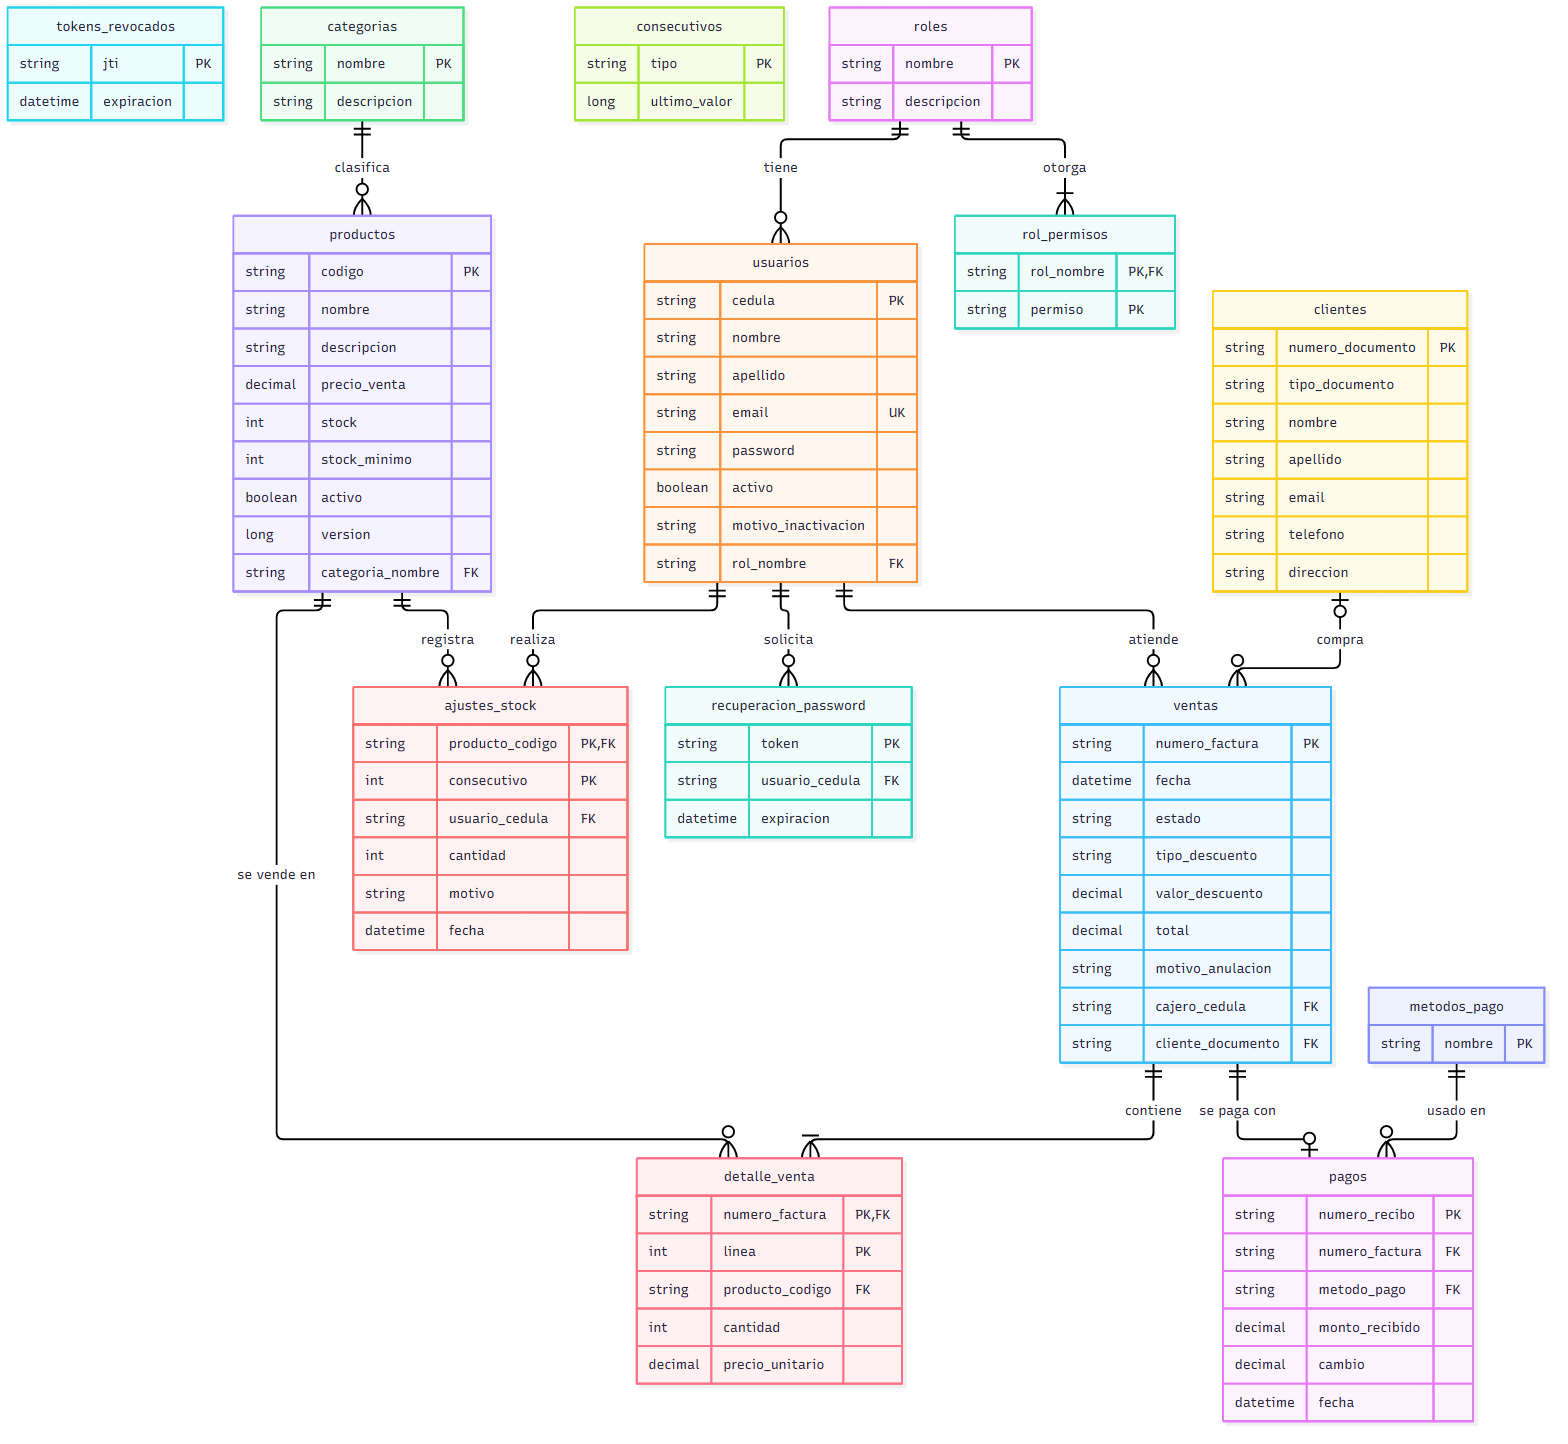
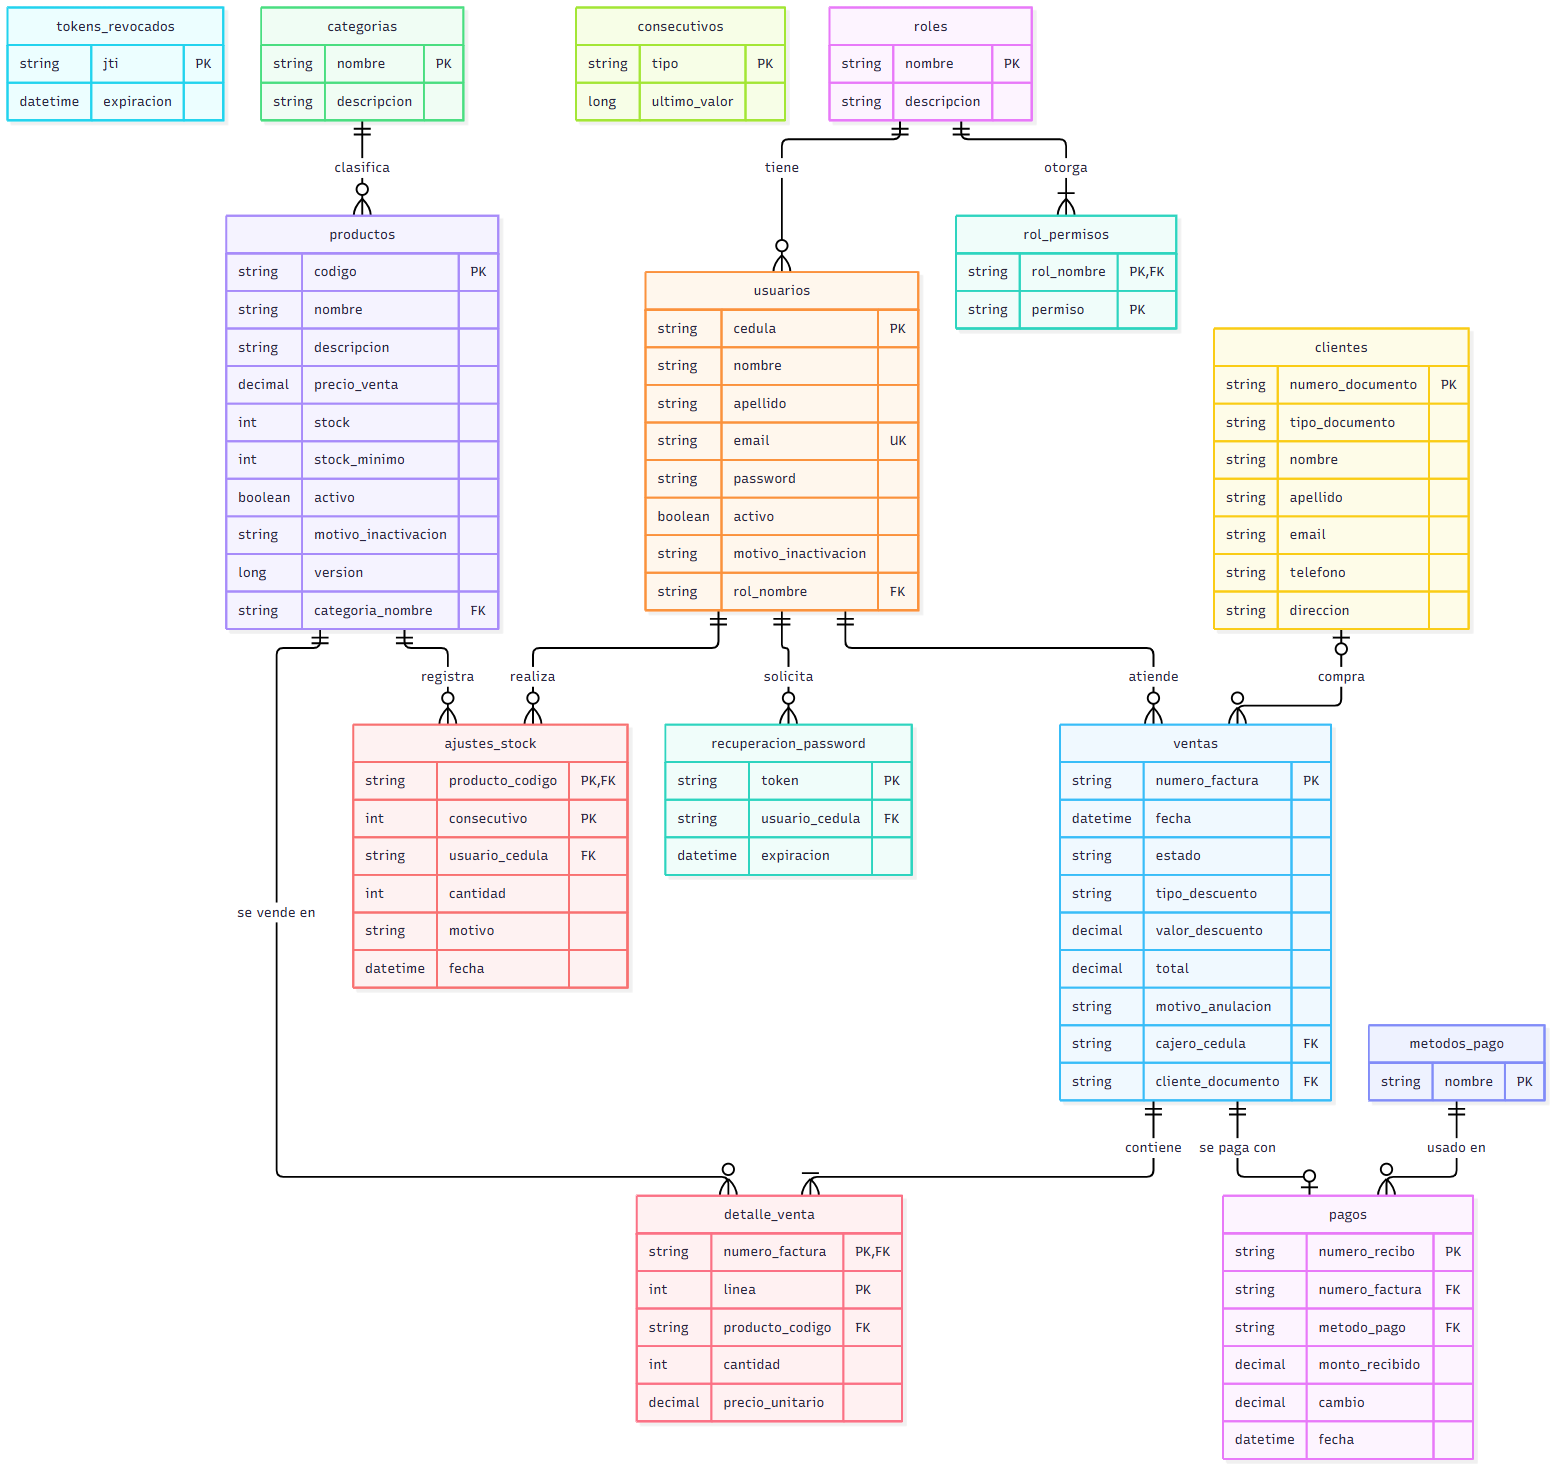
docs: diagrama del modelo actualizado, cambios al diseño y guía de verificación del Sprint 2

diff --git a/docs/verificacion-sprint-2.md b/docs/verificacion-sprint-2.md
@@ -1,0 +1,112 @@
+# Verificación del Sprint 2
+
+Guía para comprobar a mano que los requisitos del Sprint 2 funcionan. Se hizo una verificación automática el 2026-10-11 (resultados al final); esta guía es para repetirla en pantalla.
+
+## Qué se implementó
+
+| RF | Qué hace | Quién | Dónde se prueba |
+|---|---|---|---|
+| RF-013 | Crear producto (código único) | Administrador | Productos → Crear |
+| RF-014 | Actualizar producto | Administrador | Productos → Actualizar |
+| RF-015 | Consultar producto por código o nombre | Cajero y administrador | Productos → Consultar |
+| RF-016 | Listar productos con filtros de categoría y estado | Cajero y administrador | Productos → Listado |
+| RF-017 | Inactivar producto con motivo | Administrador | Productos → Inactivar |
+| RF-018 | Consultar stock con alerta de stock mínimo | Administrador | Productos → Stock |
+| RF-019 | Ajustar stock con motivo (queda en el historial) | Administrador | Productos → Stock |
+| RF-020 | Crear cliente (documento único) | Cajero y administrador | Clientes → Crear |
+| RF-021 | Actualizar cliente | Cajero y administrador | Clientes → Actualizar |
+
+Además: autocompletado en Consultar, Actualizar, Inactivar y Stock (productos) y en Consultar y Actualizar (clientes), y ventanas de confirmación al actualizar, inactivar y ajustar stock.
+
+## 0. Preparación
+
+1. Arrancar la aplicación como siempre (puerto 8081). Flyway crea las tablas nuevas solo: en el log debe aparecer un mensaje de Flyway migrando a la versión 2 (`productos y clientes`). Los datos de `pos_db` no se tocan: la migración solo agrega las tablas nuevas.
+2. Entrar a <http://localhost:8081> como administrador.
+3. Si no existe un usuario cajero, crearlo en Usuarios → Crear (rol `CAJERO`).
+4. Si prefieres no usar `pos_db`: arrancar con las variables de entorno `DB_URL=jdbc:mysql://localhost:3306/<otra_base>?createDatabaseIfNotExist=true`, `SERVER_PORT=8090` y un `ADMIN_CEDULA`/`ADMIN_PASSWORD` de prueba. **Esa base de prueba hay que borrarla después** (ver el último apartado).
+
+## 1. Como administrador: productos
+
+| # | Acción | Resultado esperado |
+|---|---|---|
+| 1 | Categorías → crear `Bebidas` (si no existe) | Categoría creada |
+| 2 | Productos → Crear: código `P001`, nombre `Coca-Cola 1.5L`, precio `5500`, stock inicial `10`, stock mínimo `5`, categoría `Bebidas` | "Producto P001 creado"; el formulario se limpia |
+| 3 | Repetir el mismo código `P001` | Error "Ya existe un producto con ese código" |
+| 4 | Crear dejando el precio vacío | "Complete el precio, el stock inicial y el stock mínimo" |
+| 5 | Listado → Buscar | Aparece `P001` con precio `$ 5.500` y stock 10 |
+| 6 | Listado → filtrar por categoría `Bebidas`, estado `Activos`, o nombre `cola` | La lista se filtra y dice cuántos productos hay |
+| 7 | Consultar → escribir `col` → elegir `P001 · Coca-Cola 1.5L` de la lista (mouse o flechas + Enter) | Ficha completa con precio, stock disponible y estado |
+| 8 | Actualizar → elegir `P001`, cambiar el precio a `5600` → Actualizar | La ventana muestra solo `Precio: $ 5.500 → $ 5.600`; al aceptar, "Producto actualizado" |
+| 9 | Actualizar sin cambiar nada | "No hay cambios para guardar" |
+| 10 | Stock → elegir `P001` → Consultar stock | "stock actual 10, stock mínimo 5" |
+| 11 | Stock → ajuste `-5`, motivo `Producto vencido` → Ajustar | La ventana muestra stock actual 10, ajuste -5, stock nuevo 5; al aceptar: "Stock actualizado: 5 (ALERTA: igual o menor al mínimo de 5)" |
+| 12 | Stock → ajuste `-50` | "El ajuste dejaría el stock en negativo" y no pide confirmación |
+| 13 | Stock → ajuste `0` o sin motivo | Mensaje de validación |
+| 14 | Listado | `P001` muestra stock 5 con la insignia amarilla "Stock bajo" |
+| 15 | Inactivar → elegir `P001`, motivo `Descontinuado` → Inactivar | La ventana advierte que no podrá incluirse en ventas ni reactivarse; al aceptar: "Producto inactivado" |
+| 16 | Listado → estado `Inactivos` | `P001` aparece como Inactivo y ya no tiene botón Inactivar |
+| 17 | Consultar `P001` | La ficha muestra el estado Inactivo y el motivo |
+
+## 2. Como cajero: productos
+
+Cerrar sesión y entrar como cajero.
+
+| # | Acción | Resultado esperado |
+|---|---|---|
+| 1 | Mirar las pestañas | Solo Categorías, Productos y Clientes (no Usuarios ni Roles) |
+| 2 | Productos | Solo las subpestañas Listado y Consultar; la tabla no tiene columna de acciones |
+| 3 | Listado y Consultar | Funcionan igual que para el administrador (incluida la insignia "Stock bajo") |
+
+La restricción real la hace el servidor, no la pantalla: con el cajero, las rutas de crear, actualizar, inactivar, stock y ajustes responden 403 (lo comprueba la colección de Postman y las pruebas automáticas).
+
+## 3. Clientes (cajero o administrador)
+
+| # | Acción | Resultado esperado |
+|---|---|---|
+| 1 | Clientes → Crear: tipo `CC`, documento `1020304050`, nombre `Ana`, apellido `Lopez` (correo, teléfono y dirección vacíos) | "Cliente Ana Lopez creado (CC 1020304050)" |
+| 2 | Crear otro con tipo `NIT` y documento `900123456-7` | Se crea (el guion es válido) |
+| 3 | Repetir el documento `1020304050` | "Ya existe un cliente con ese número de documento" |
+| 4 | Crear con correo `abc` | Error de formato de correo |
+| 5 | Crear con teléfono `abc` | Error de formato de teléfono |
+| 6 | Consultar → escribir `lop` → elegir de la lista | Ficha con documento, nombre y `(sin correo)`, `(sin teléfono)`, `(sin dirección)` |
+| 7 | Actualizar → elegir al cliente → se cargan sus datos → cambiar el teléfono a `3109876543` | La ventana muestra solo `Teléfono: (vacío) → 3109876543`; al aceptar: "Cliente actualizado" |
+| 8 | Actualizar sin cambios | "No hay cambios para guardar" |
+| 9 | Consultar un documento que no existe | "No existe un cliente con ese documento..." |
+
+## 4. Colección de Postman
+
+1. Importar `postman/POS_API.postman_collection.json`.
+2. Rellenar las variables de la colección: `baseUrl` (por ejemplo `http://localhost:8081`), `adminCedula` y `adminPassword`.
+3. Ejecutar la colección completa (Run). Resultado esperado: **56 requests y 56 pruebas, todas en verde**. Se puede ejecutar varias veces: los casos de "crear" aceptan 201 o 400 si ya existe.
+
+Las carpetas nuevas son **Productos** (16), **Clientes** (10) y 7 casos nuevos dentro de **Control por rol (Cajero)**.
+
+## 5. Pruebas automáticas
+
+```bash
+./mvnw test
+```
+
+Resultado esperado: **130 pruebas, 0 fallos** (en Windows con certificados corporativos: `MAVEN_OPTS=-Djavax.net.ssl.trustStoreType=WINDOWS-ROOT`). Las nuevas son 66: productos (42), clientes (24).
+
+## Resultado de la verificación automática (2026-10-11)
+
+| Verificación | Resultado |
+|---|---|
+| Pruebas automáticas | 130 de 130 en verde |
+| Colección de Postman con newman, contra la aplicación y MySQL reales | 56 requests, 56 pruebas, 0 fallos (dos ejecuciones seguidas) |
+| Arranque con MySQL: Flyway valida `V1` y `V2` y Hibernate valida el esquema (`ddl-auto=validate`) | Correcto, sin errores en el log |
+| Interfaz probada en el navegador | Productos: listado, crear, autocompletado, ajuste de stock con alerta, vista de cajero y consultar por nombre. Clientes: crear (NIT), autocompletado, actualizar con confirmación y consultar |
+| No probado en pantalla | Productos → Actualizar e Inactivar (sí probados por API y Postman), y los mensajes de error de validación de clientes (sí cubiertos por pruebas automáticas) |
+
+## Antes de terminar: borrar las bases de prueba
+
+Durante el desarrollo quedaron bases de prueba en el MySQL local. No las usa la aplicación y se pueden borrar:
+
+```sql
+DROP DATABASE IF EXISTS pos_s2_test;
+DROP DATABASE IF EXISTS pos_flyway_test;
+DROP DATABASE IF EXISTS pos_ui_test;
+```
+
+Si al verificar se usó otra base de prueba, borrarla también. **No borrar `pos_db`**: es la base de desarrollo.

diff --git a/docs/modelo-de-datos.md b/docs/modelo-de-datos.md
@@ -2,7 +2,7 @@
 
 Diagrama entidad-relación del sistema POS. Es el diseño de referencia: las migraciones SQL y las entidades JPA se derivan de él. Todas las llaves primarias son datos propios de la entidad (ninguna autogenerada), como pidió el profesor.
 
-Estado: borrador para revisión. Sprint 1 implementado; Sprint 2 a Sprint 5 son proyección.
+Estado: Sprints 1 y 2 implementados (migraciones `V1` y `V2` de Flyway); Sprints 3 a 5 son proyección. Único cambio respecto al diseño aprobado: `productos.motivo_inactivacion` (ver las notas más abajo).
 
 ```mermaid
 erDiagram
@@ -143,6 +143,12 @@ erDiagram
 - **Método de pago**: `metodos_pago` es el catálogo de opciones que el cliente puede usar; `pagos.metodo_pago` guarda el que finalmente se eligió. La venta no guarda método de pago, para no tener el mismo dato en dos lugares. El texto del RF-025 menciona el método de pago como dato de la venta; se ajusta cuando se implemente el Sprint 3.
 - **`ventas.estado`** toma tres valores: `EN_PROCESO`, `REGISTRADA` y `ANULADA`.
 
+## Cambios respecto al diseño aprobado
+
+- **`productos.motivo_inactivacion` (Sprint 2).** No estaba en el diagrama aprobado. El RF-017 pide un motivo al inactivar un producto, y sin esta columna el motivo se perdería. Se copió el criterio de `usuarios.motivo_inactivacion` (texto de hasta 500 caracteres, vacío mientras el producto está activo).
+- **`ajustes_stock.motivo` y `usuario_cedula` son obligatorios** (`NOT NULL`): un ajuste sin responsable o sin motivo no sirve como historial (RF-019).
+- **`clientes`:** el tipo de documento se valida en la aplicación (CC, CE, TI, NIT o PP) y no en la base de datos, para poder agregar tipos sin una migración.
+
 ## Pendiente
 
-- Los requisitos RF-001, RF-004 y RF-006 todavía dicen "nombre de usuario"; el sistema usa la cédula. Se actualizan durante el Sprint 2 junto con los demás documentos.
+- Los requisitos RF-001, RF-004 y RF-006 se actualizaron a "cédula" el 2026-10-11 (`docs/heredado-ds1/pos_requisitos_funcionales.xlsx` y su `.md`). El SRS (`SRS_Sistema_POS_completo`) y el documento de arquitectura entregado siguen con la redacción anterior (usuario por nombre de usuario, llaves autoincrementales, sin Flyway).
